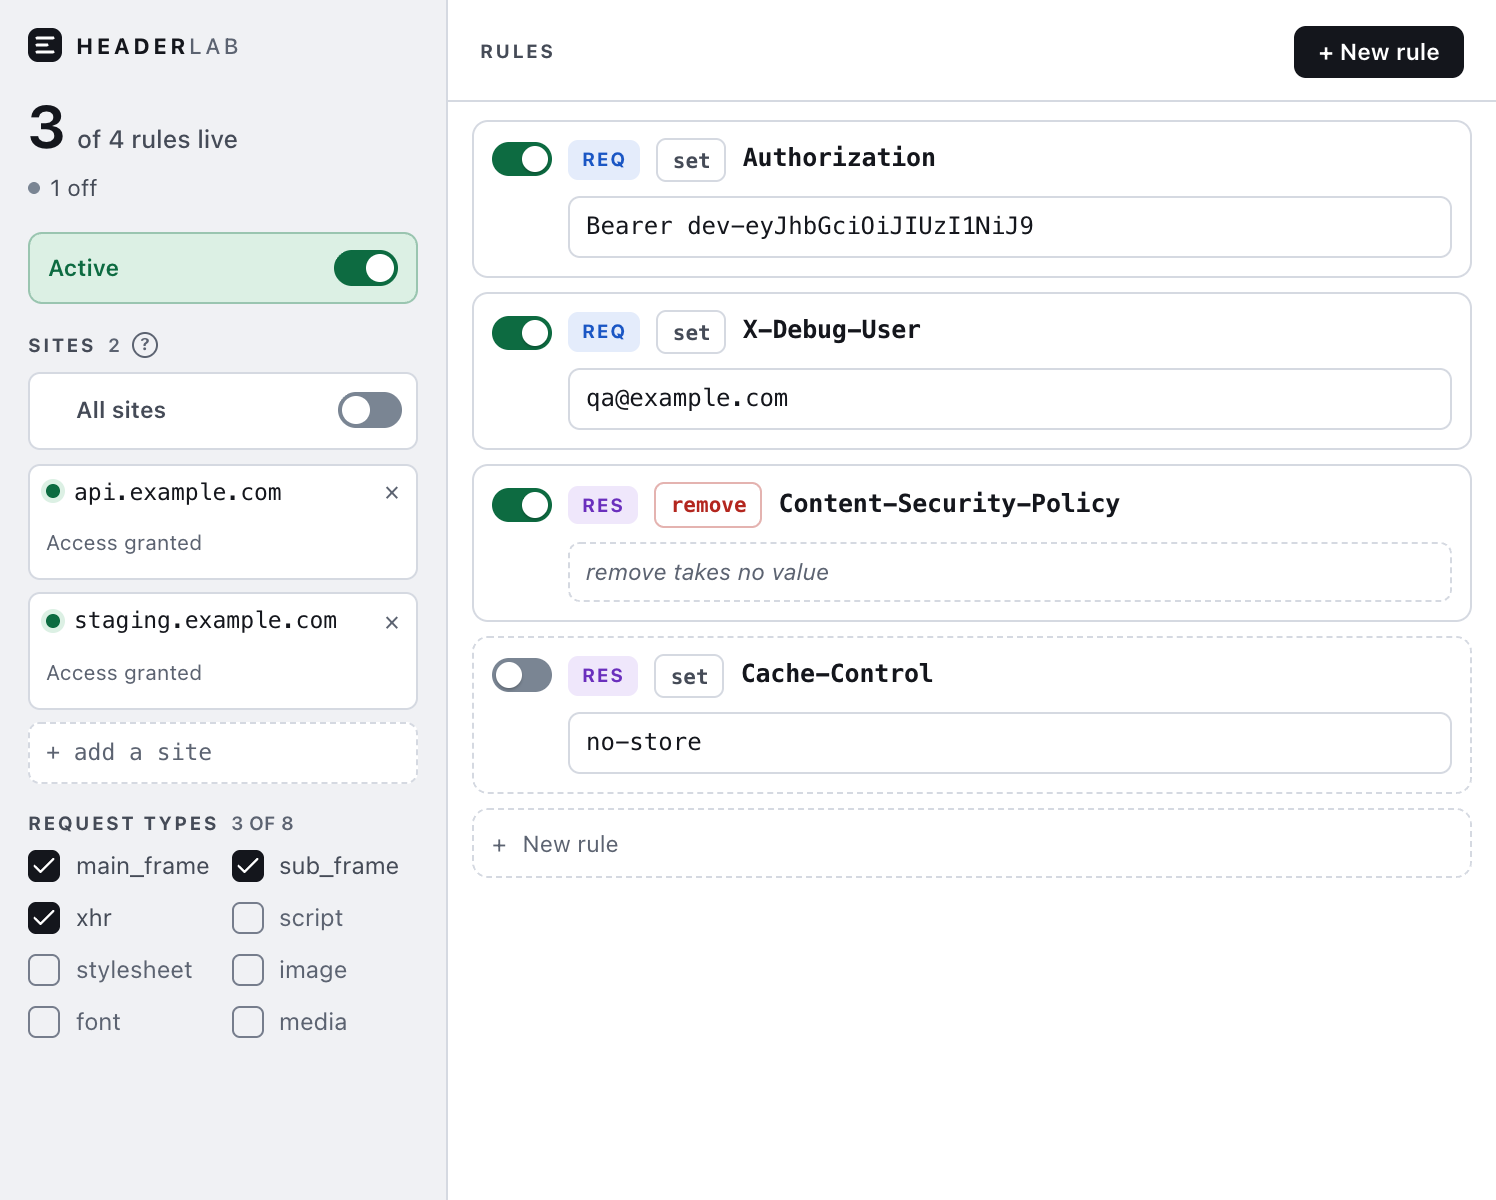
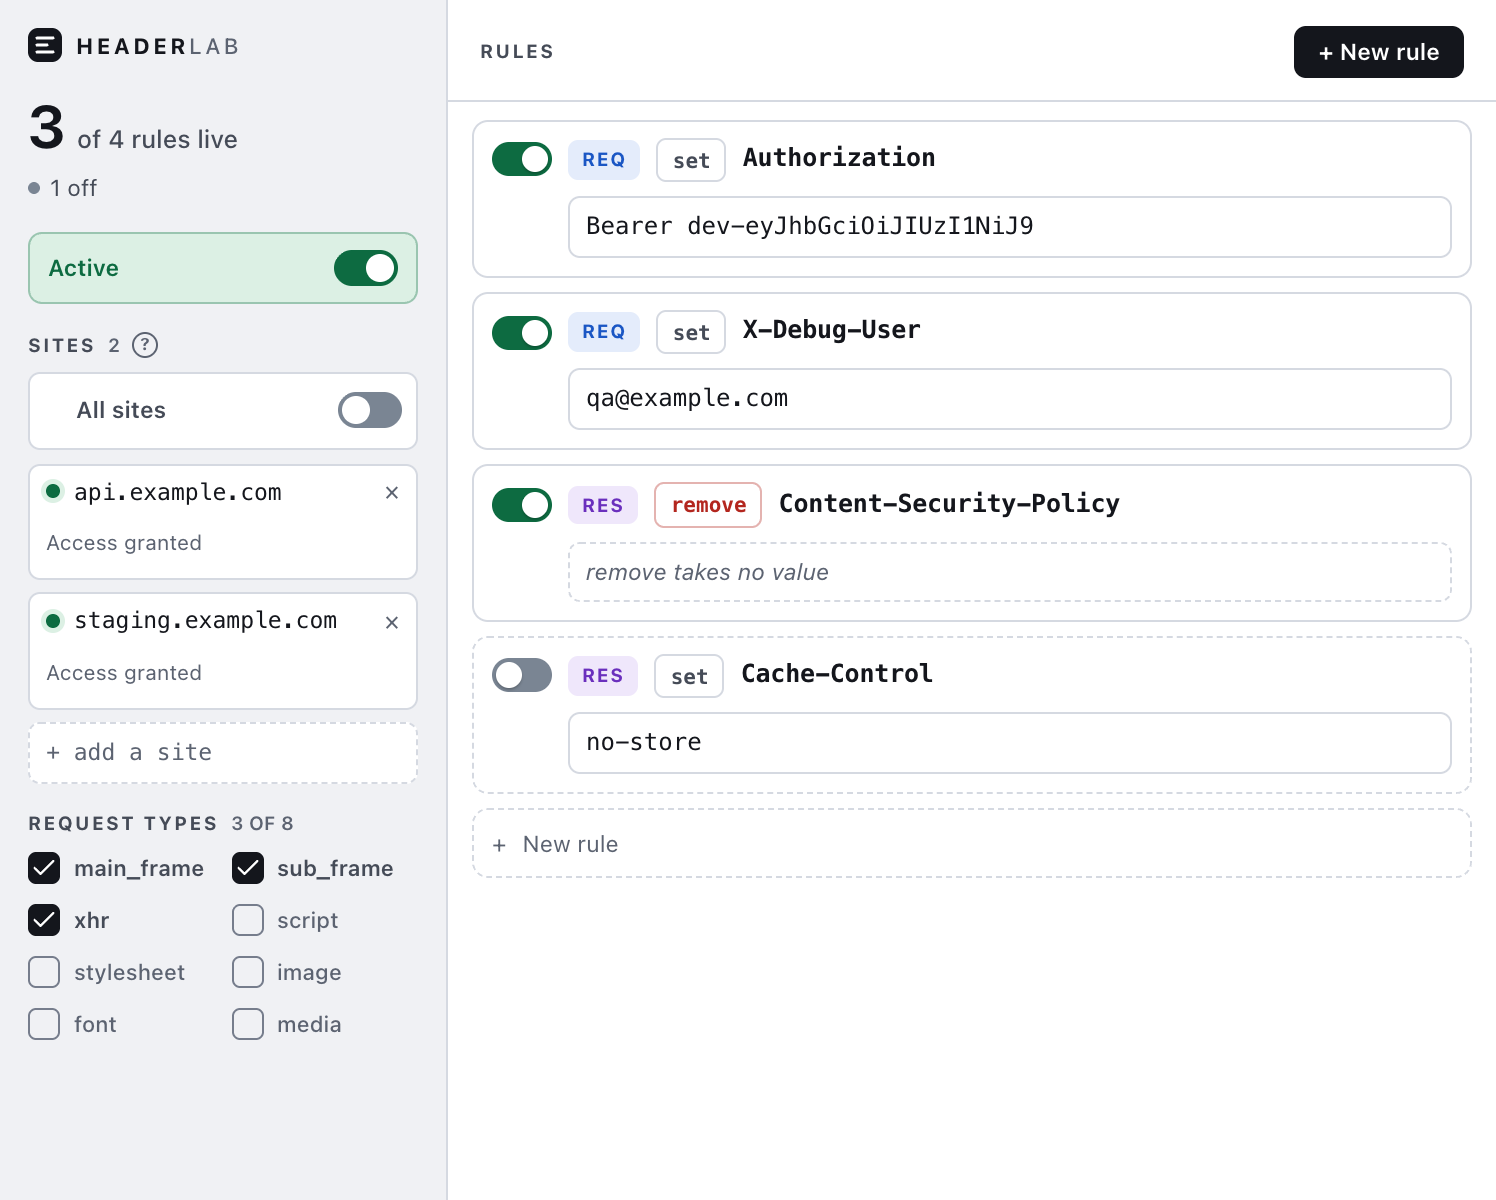
fix: 체크리스트 치수를 시안 값으로 맞추고 죽은 대비 가드를 지운다
리뷰 라운드 1 반영. 체크박스 행 높이·행 간격·라벨 크기·아이콘 간격을
브리프 값 대신 시안(popup-tight-instrument.html) 값으로 맞추고,
체크된 라벨에 font-semibold(해제는 font-medium)를 추가해 시안의
굵기 대비를 재현한다. contrast.test.ts 에서 삭제된 .hl-tybox 를
가리키던 죽은 SHAPE_PAIRS 항목을 지우고(대체 커버리지는 이미 있는
--boundary/--rail 블록), 남은 .hl-ty 이름만 쓰던 주석을 고친다.

diff --git a/tests/unit/contrast.test.ts b/tests/unit/contrast.test.ts
@@ -179,7 +179,11 @@ const TEXT_PAIRS: ReadonlyArray<readonly [string, string, string]> = [
     '--foreground-2',
     '--rail',
   ],
-  ['section counts and unchecked type labels — .hl-n / .hl-ty', '--muted-foreground', '--rail'],
+  [
+    'section counts and unchecked type labels — .hl-n / TypeChecklist label',
+    '--muted-foreground',
+    '--rail',
+  ],
   ['"Active" — .hl-pauselab', '--live', '--live-bg'],
   ['"Paused" — .hl-pausebar[data-paused] .hl-pauselab', '--foreground-2', '--background'],
   // The all-sites switch wears three surfaces, one per state, and each paints
@@ -238,7 +242,6 @@ const TEXT_PAIRS: ReadonlyArray<readonly [string, string, string]> = [
 const SHAPE_PAIRS: ReadonlyArray<readonly [string, string, string]> = [
   ['switched-off rule track — .hl-tog[aria-checked=false] on .hl-rule', '--input', '--card'],
   ['paused master switch track — .hl-sw[aria-checked=false] on the rail', '--input', '--rail'],
-  ['unchecked type box — .hl-tybox on the rail', '--input', '--rail'],
   // The idle row's dot is a hollow ring rather than a fill — there is no access
   // state to report on a host nothing is scoped to — so what has to stay
   // visible is its outline.

diff --git a/components/TypeChecklist.tsx b/components/TypeChecklist.tsx
@@ -47,12 +47,13 @@ export interface TypeChecklistProps {
  */
 export function TypeChecklist({ selected, onToggle }: TypeChecklistProps) {
   return (
-    <div className="grid grid-cols-2 gap-x-2 gap-y-1.5" data-testid="type-grid">
+    <div className="grid grid-cols-2 gap-x-2 gap-y-1" data-testid="type-grid">
       {OFFERED.map(([type, label]) => (
         <label
           key={type}
-          className="flex h-5 cursor-pointer items-center gap-2 text-[12px] leading-4
-                     text-foreground-2 select-none has-data-[state=unchecked]:text-muted-foreground"
+          className="flex h-[22px] cursor-pointer items-center gap-[7px] text-[11px] leading-[14px]
+                     font-semibold text-foreground-2 select-none
+                     has-data-[state=unchecked]:font-medium has-data-[state=unchecked]:text-muted-foreground"
         >
           <Checkbox
             data-testid="type-check"
